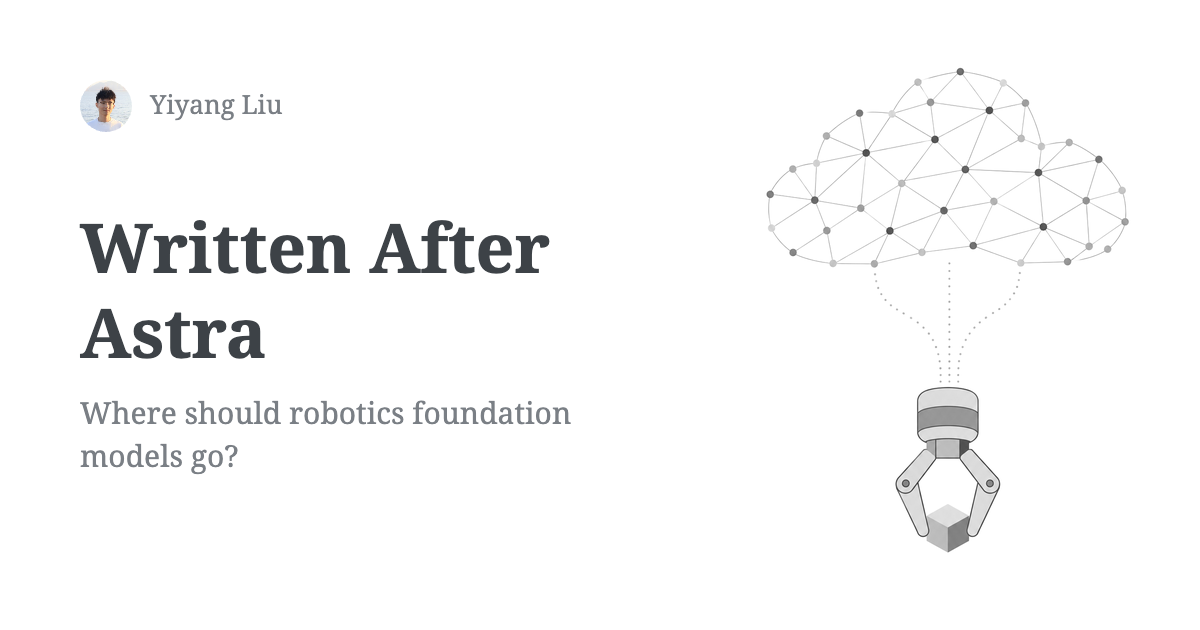
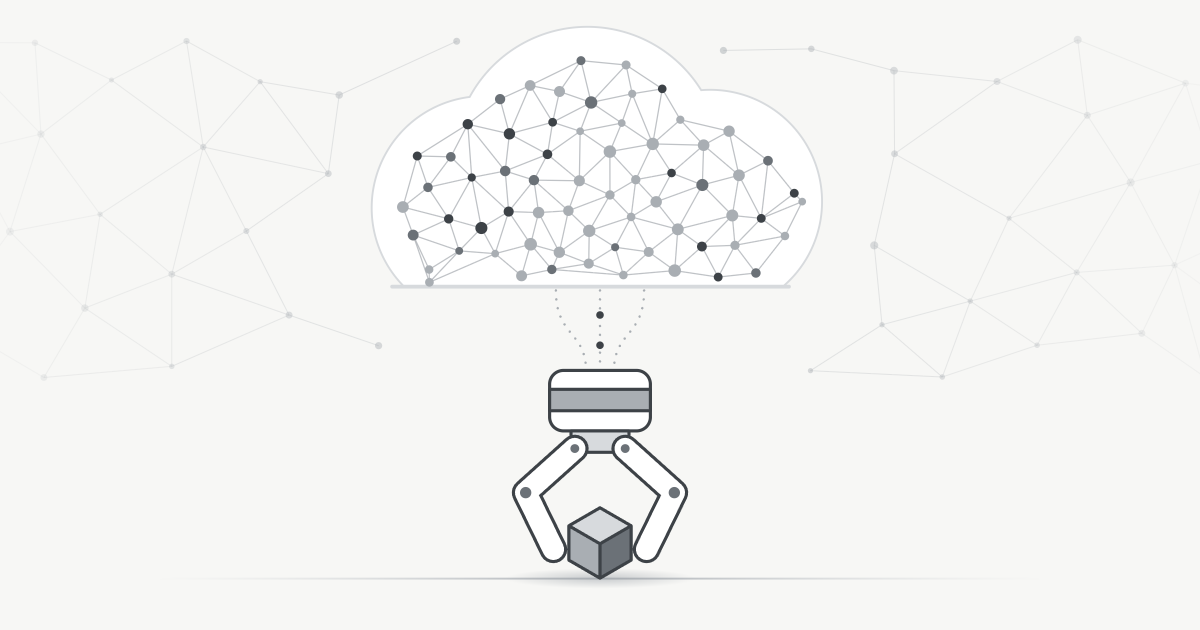
docs: 发布博客《写在Astra之后》

diff --git a/_posts/2026-11-17-182d68e6-en.md b/_posts/2026-11-17-182d68e6-en.md
@@ -180,4 +180,4 @@ Robotics still has plenty of open problems. Leaving hardware iteration cycles as
 
 <script defer src="/assets/js/blog-charts.js"></script>
 
-<!-- obsidian_publish_id: 1794977535051-b8hvucog -->
+<!-- obsidian_publish_id: 1794978025296-8fiub6l8 -->

diff --git a/_posts/2026-11-17-182d68e6.md b/_posts/2026-11-17-182d68e6.md
@@ -182,4 +182,4 @@ $$
 
 <script defer src="/assets/js/blog-charts.js"></script>
 
-<!-- obsidian_publish_id: 1794977535051-b8hvucog -->
+<!-- obsidian_publish_id: 1794978025296-8fiub6l8 -->
